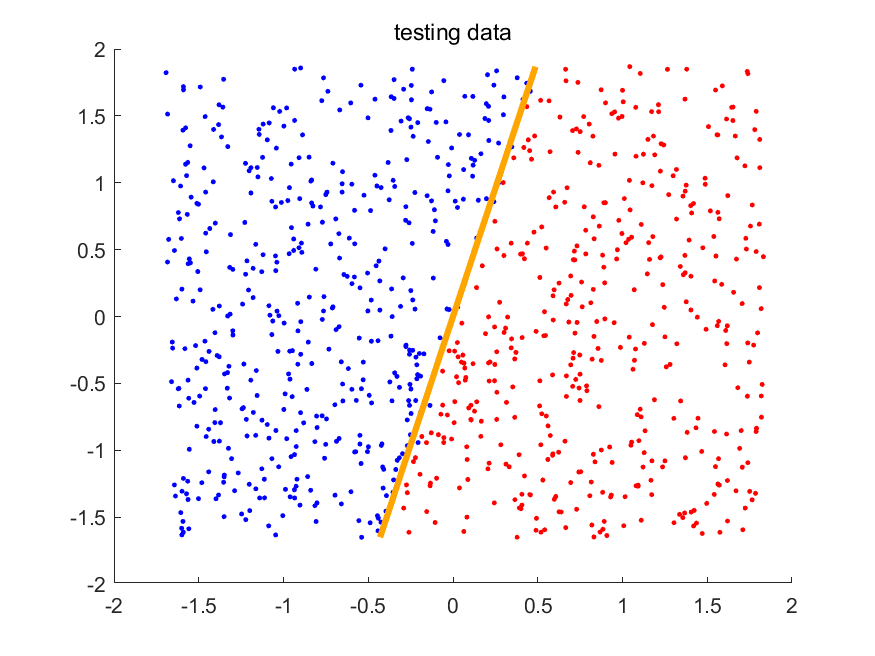
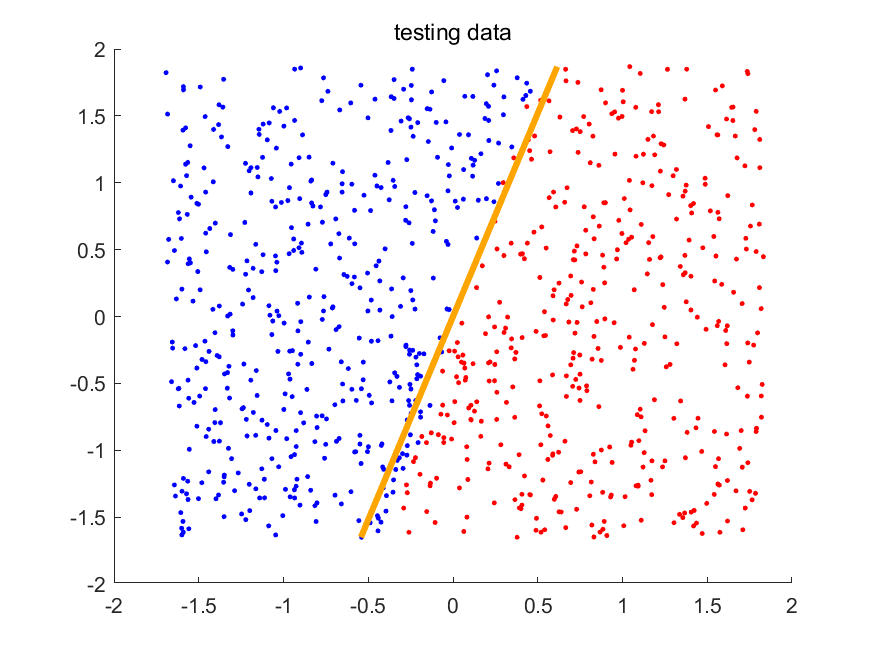
final

Changed region(s): [[0.5246, 0.0915, 0.648, 0.4573], [0.4011, 0.4878, 0.5246, 0.8232]]

diff --git a/subgradient.m b/subgradient.m
@@ -1,26 +1,40 @@
-function wb = subgradient(x, y, u, maxiter)
-    % This function is to find the optimal weights w and bias b.
+function w = subgradient(x, y, u, maxIter)
+% This function is to find the optimal weights w.
+% set bias b to be zero.
     dim = size(x, 2);
     w = zeros(dim, 1); % initial weights
-    b=0; % initial bias
     N = size(x, 1);
-    x = zscore(x);% normalization
-
-    wb = [w; b];
-    x = [x, ones(N, 1)];
+    x=  zscore(x);% standardization
     C = 0.01; % trade-off coeff.
-    %% Training (Using Stochastic Gradient Descend-SGD):
-    for iter1 = 1:maxiter
-        S = randperm(N); % Shuffle the set
-        for iter2 = S
-            % sub-gradient: iter for each data point
-            if y(iter2) * wb' * x(iter2,:)' <= 1
-                wb = (1 - u) * [w; 0] + u * C * N * y(iter2) * x(iter2, :)'; 
-                w = wb(1:end - 1);
-            else
-                w = (1 - u) * w;
-                wb = [w; wb(end)];
-            end
+    % C=15
+    %% Training (Using Pegasos):
+    for iter1 = 1 : maxIter
+        % pick one data point in one iteration until MaxIter
+        iter2 = randi(N);
+        if y(iter2) * w' * x(iter2, :)' <= 1
+           w = (1 - u) * w + u * C * N * y(iter2) * x(iter2, :)'; 
+        else
+           w = (1 - u) * w;
         end
+    end 
+    %% Training (Using mini-batch Pegasos):
+    a = 1; % if a=0.01, is the same as Pegasos
+    k = a * N;
+    for iter1 = 1:maxIter
+        S = randperm(N); % Shuffle the set
+        S = S([1 : k]);
+        xx = x(S, :); % new data set
+        yy = y(S);
+        temp = zeros(dim, length(S));
+        for iter2 = 1:length(S)
+            % sub-gradient: iter for each data point in the subset for every
+            % iteration
+            if yy(iter2) * w' * xx(iter2, :)' <= 1
+               temp(:, iter2) = u * C * N * yy(iter2) * xx(iter2, :)';     
+            else
+               temp(:, iter2) = zeros(dim, 1);
+            end        
+        end
+        w = (1 - u) * w + mean(temp, 2);
     end
 end

diff --git a/main_pegasos.m b/main_pegasos.m
@@ -1,21 +1,28 @@
 clear all
-load("linear_svm.mat");
+close all
 %% load training data and initialization:
-u = 1e-6; % learning rate for stochastic gradient descent (SGD)
-maxiter = 200; 
+load("linear_svm.mat");
+u = 1e-5; % learning rate for stochastic gradient descent (SGD), set a small number
+maxIter = 1e2; 
 
 %% Training: 
-wb = subgradient(X_train, labels_train, u, maxiter);
+tStart = cputime;
+w = subgradient(X_train, labels_train, u, maxIter);
+tEnd = cputime - tStart
 
 %% Test:
+%set b directly to zero
+wb = [w; 0];
 Y_hat = predict_SVM(wb, X_test);
 
-%% Results:
+%% Accuracy:
+format long
 test_accuracy = sum(Y_hat == labels_test) / numel(labels_test) * 100
-% plotconfusion(categorical(Yt),categorical(Y_hat'))
 
 % plot the given datasets
-w = wb(1:end - 1);
+w = wb(1:end-1);
 b = wb(end);
-visualize(zscore(X_train), labels_train, w, b, 'soft margin results from Pegasos on training data');
-visualize(zscore(X_test), labels_test, w, b, 'soft margin results from Pegasos on testing data');
+% visualize(X_train, labels_train, w, b, 'training data');
+% visualize(X_test, labels_test, w, b, 'testing data');
+visualize(zscore(X_train), labels_train, w, b, 'training data');
+visualize(zscore(X_test), labels_test, w, b, 'testing data');

diff --git a/main.m b/main.m
@@ -25,17 +25,23 @@ visualize(zscore(X_train), labels_train, w,b, 'soft margin results from CVX on t
 visualize(zscore(X_test), labels_test, w, b, 'soft margin results from CVX on testing data');
 
 %% solve the softened (soft margin) problem via Pegasos
-u = 1e-6; % learning rate for stochastic gradient descent (SGD)
-maxiter = 200; 
- 
-wb = subgradient(X_train, labels_train, u, maxiter);
+u = 1e-5; % learning rate for stochastic gradient descent (SGD), set a small number
+maxIter = 1e2; 
 
+tStart = cputime;
+w = subgradient(X_train, labels_train, u, maxIter);
+tEnd = cputime - tStart
+
+%set b directly to zero
+wb = [w; 0];
 Y_hat = predict_SVM(wb, X_test);
 
+format long
 test_accuracy = sum(Y_hat == labels_test) / numel(labels_test) * 100
 
-% plot the results
-w = wb(1:end - 1);
+% plot the given datasets
+w = wb(1:end-1);
 b = wb(end);
+
 visualize(zscore(X_train), labels_train, w, b, 'soft margin results from Pegasos on training data');
 visualize(zscore(X_test), labels_test, w, b, 'soft margin results from Pegasos on testing data');
